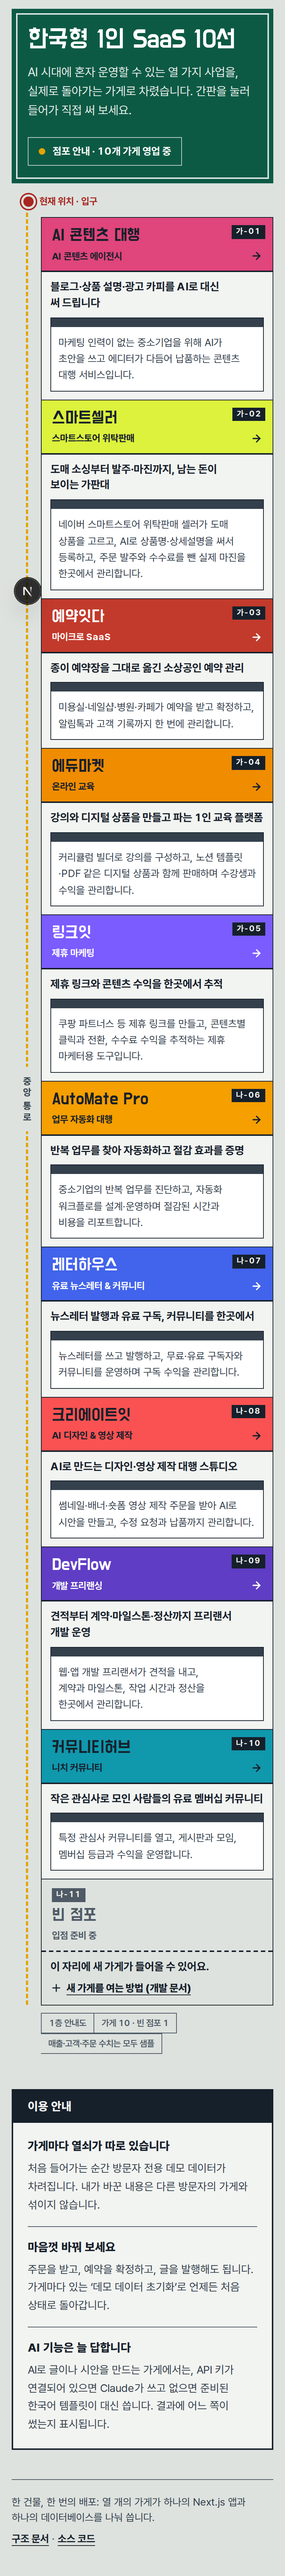
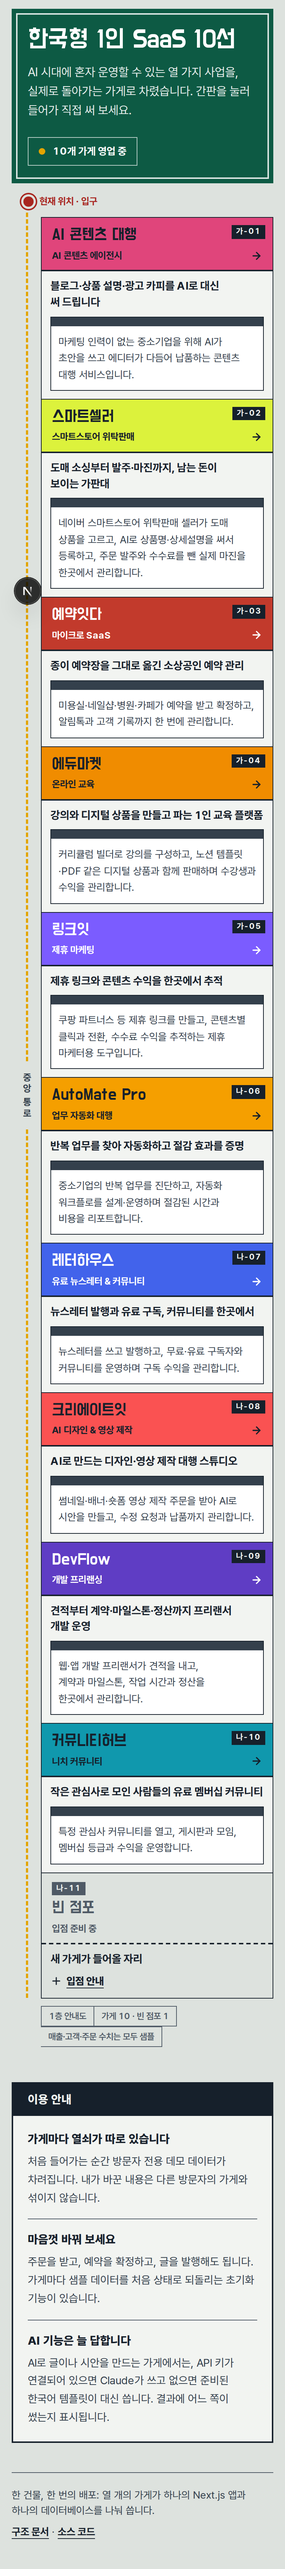
Hub: link the entrance directory, fit the end cap, scope the notice claims
Second finish-review batch: directory entries are real links, the
directory label hides with its list on small screens, the vacant end
cap copy fits its column, sign names stay on one line at 1440px, and
the notice no longer names a control it cannot guarantee.

Claude-Session: https://claude.ai/code/session_015PojM3z81vci2auDkCUBno

diff --git a/src/hub/HubPage.tsx b/src/hub/HubPage.tsx
@@ -34,21 +34,23 @@ export function HubPage() {
               써 보세요.
             </p>
           </div>
-          <div className={styles.directory}>
-            <p className={styles.directoryTitle}>
+          <nav className={styles.directory} aria-labelledby="directory-title">
+            <p id="directory-title" className={styles.directoryTitle}>
               <span className={styles.lamp} aria-hidden />
-              점포 안내 · {MODULES.length}개 가게 영업 중
+              <span className={styles.directoryLabel}>점포 안내 · </span>
+              {MODULES.length}개 가게 영업 중
             </p>
-            {/* Mirrors the plan below for sighted visitors; the stalls carry the same names for assistive tech. */}
-            <ol className={styles.directoryList} role="list" aria-hidden>
+            <ol className={styles.directoryList} role="list">
               {MODULES.map((meta, index) => (
                 <li key={meta.slug}>
-                  <span>{plateFor(index < perRow ? 0 : 1, meta.order)}</span>
-                  {meta.name}
+                  <a href={`/${meta.slug}`}>
+                    <span>{plateFor(index < perRow ? 0 : 1, meta.order)}</span>
+                    {meta.name}
+                  </a>
                 </li>
               ))}
             </ol>
-          </div>
+          </nav>
         </div>
       </header>
 
@@ -110,8 +112,8 @@ export function HubPage() {
           <div>
             <dt>마음껏 바꿔 보세요</dt>
             <dd>
-              주문을 받고, 예약을 확정하고, 글을 발행해도 됩니다. 가게마다 있는 ‘데모 데이터 초기화’로 언제든 처음
-              상태로 돌아갑니다.
+              주문을 받고, 예약을 확정하고, 글을 발행해도 됩니다. 가게마다 샘플 데이터를 처음 상태로 되돌리는 초기화
+              기능이 있습니다.
             </dd>
           </div>
           <div>

diff --git a/src/hub/hub.module.css b/src/hub/hub.module.css
@@ -102,13 +102,13 @@
 .directoryTitle {
   display: flex;
   align-items: center;
-  gap: 10px;
   font-size: 0.875rem;
   font-weight: 700;
 }
 
 .lamp {
   flex: none;
+  margin-right: 10px;
   width: 9px;
   height: 9px;
   border-radius: 50%;
@@ -127,10 +127,20 @@
 }
 
 .directoryList li {
+  break-inside: avoid;
+}
+
+.directoryList a {
   display: flex;
   gap: 10px;
   padding: 2px 0;
-  break-inside: avoid;
+  color: inherit;
+  text-decoration: none;
+}
+
+.directoryList a:hover {
+  text-decoration: underline;
+  text-underline-offset: 3px;
 }
 
 .directoryList span {
@@ -149,7 +159,7 @@
   position: relative;
   display: grid;
   /* Shop units, plus the vacant unit that caps the end of the aisle. */
-  grid-template-columns: repeat(var(--units), minmax(0, 1fr)) minmax(132px, 0.55fr);
+  grid-template-columns: repeat(var(--units), minmax(0, 1fr)) minmax(128px, 0.5fr);
   grid-template-rows: auto 52px auto;
   border: 1px solid var(--ink);
 }
@@ -263,9 +273,9 @@
 }
 
 .signName {
-  padding-right: 52px;
+  padding-right: 46px;
   font-family: var(--sign-face);
-  font-size: clamp(1.45rem, 1.1rem + 0.7vw, 1.875rem);
+  font-size: clamp(1.4rem, 1.05rem + 0.7vw, 1.8rem);
   line-height: 1.05;
   overflow-wrap: anywhere;
 }
@@ -506,7 +516,8 @@
     padding: 8px 14px;
   }
 
-  .directoryList {
+  .directoryList,
+  .directoryLabel {
     display: none;
   }
 

diff --git a/src/hub/Stall.tsx b/src/hub/Stall.tsx
@@ -60,9 +60,10 @@ export function VacantStall({
           <span className={styles.plate}>{plate}</span>
         </span>
         <span className={styles.front}>
-          <span className={styles.tagline}>이 자리에 새 가게가 들어올 수 있어요.</span>
+          <span className={styles.tagline}>새 가게가 들어올 자리</span>
           <span className={styles.vacantNote}>
-            <Plus aria-hidden size={16} strokeWidth={2.25} />새 가게를 여는 방법 (개발 문서)
+            <Plus aria-hidden size={16} strokeWidth={2.25} />
+            입점 안내
           </span>
         </span>
       </a>

diff --git a/src/hub/PRODUCT.md b/src/hub/PRODUCT.md
@@ -47,7 +47,7 @@ keeps its own identity.
 ## Evidence on Hand
 
 - The ten products themselves (live routes) and their catalogue metadata.
-- No real customers, revenue, testimonials or usage numbers exist. The legacy READMEs state revenue *targets*
+- No real customers, revenue, testimonials or usage numbers exist. The legacy READMEs state revenue _targets_
   ("월 최대 1,500만원" etc.); these are goals, not results, and must not be presented as achievements.
 
 ## Product Principles
